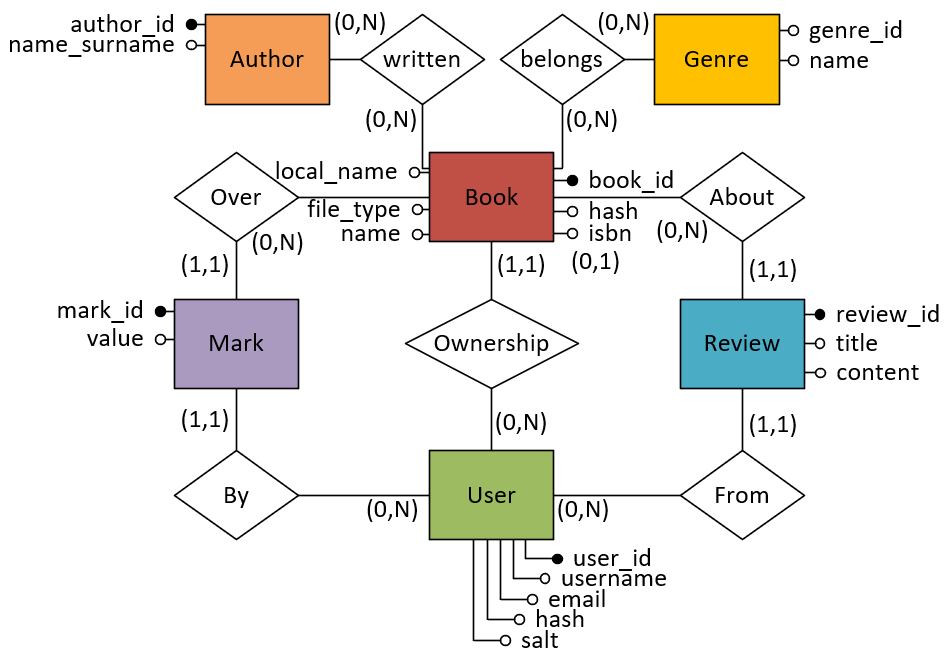
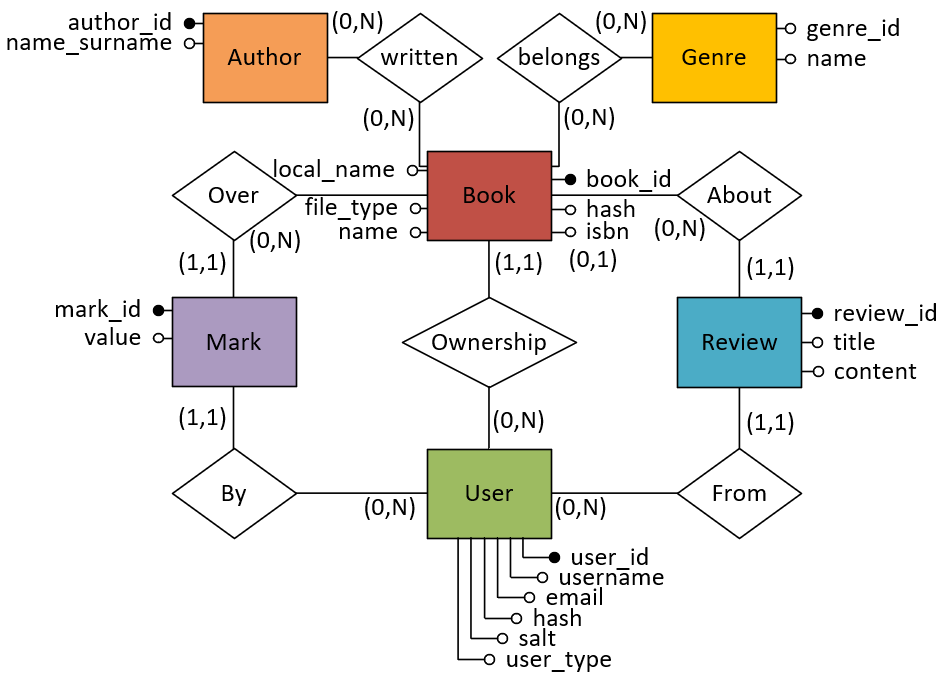
Added user_type property

Changed region(s): [[0.0, 0.0, 1.0, 1.0], [0.4301, 0.4262, 0.6144, 0.6088], [0.768, 0.2131, 0.7987, 0.2435]]

diff --git a/lib/Models.php b/lib/Models.php
@@ -8,6 +8,7 @@
         public $email;
         public $hash;
         public $salt;
+        public $user_type;
     }
 
     class Book extends Entity{
